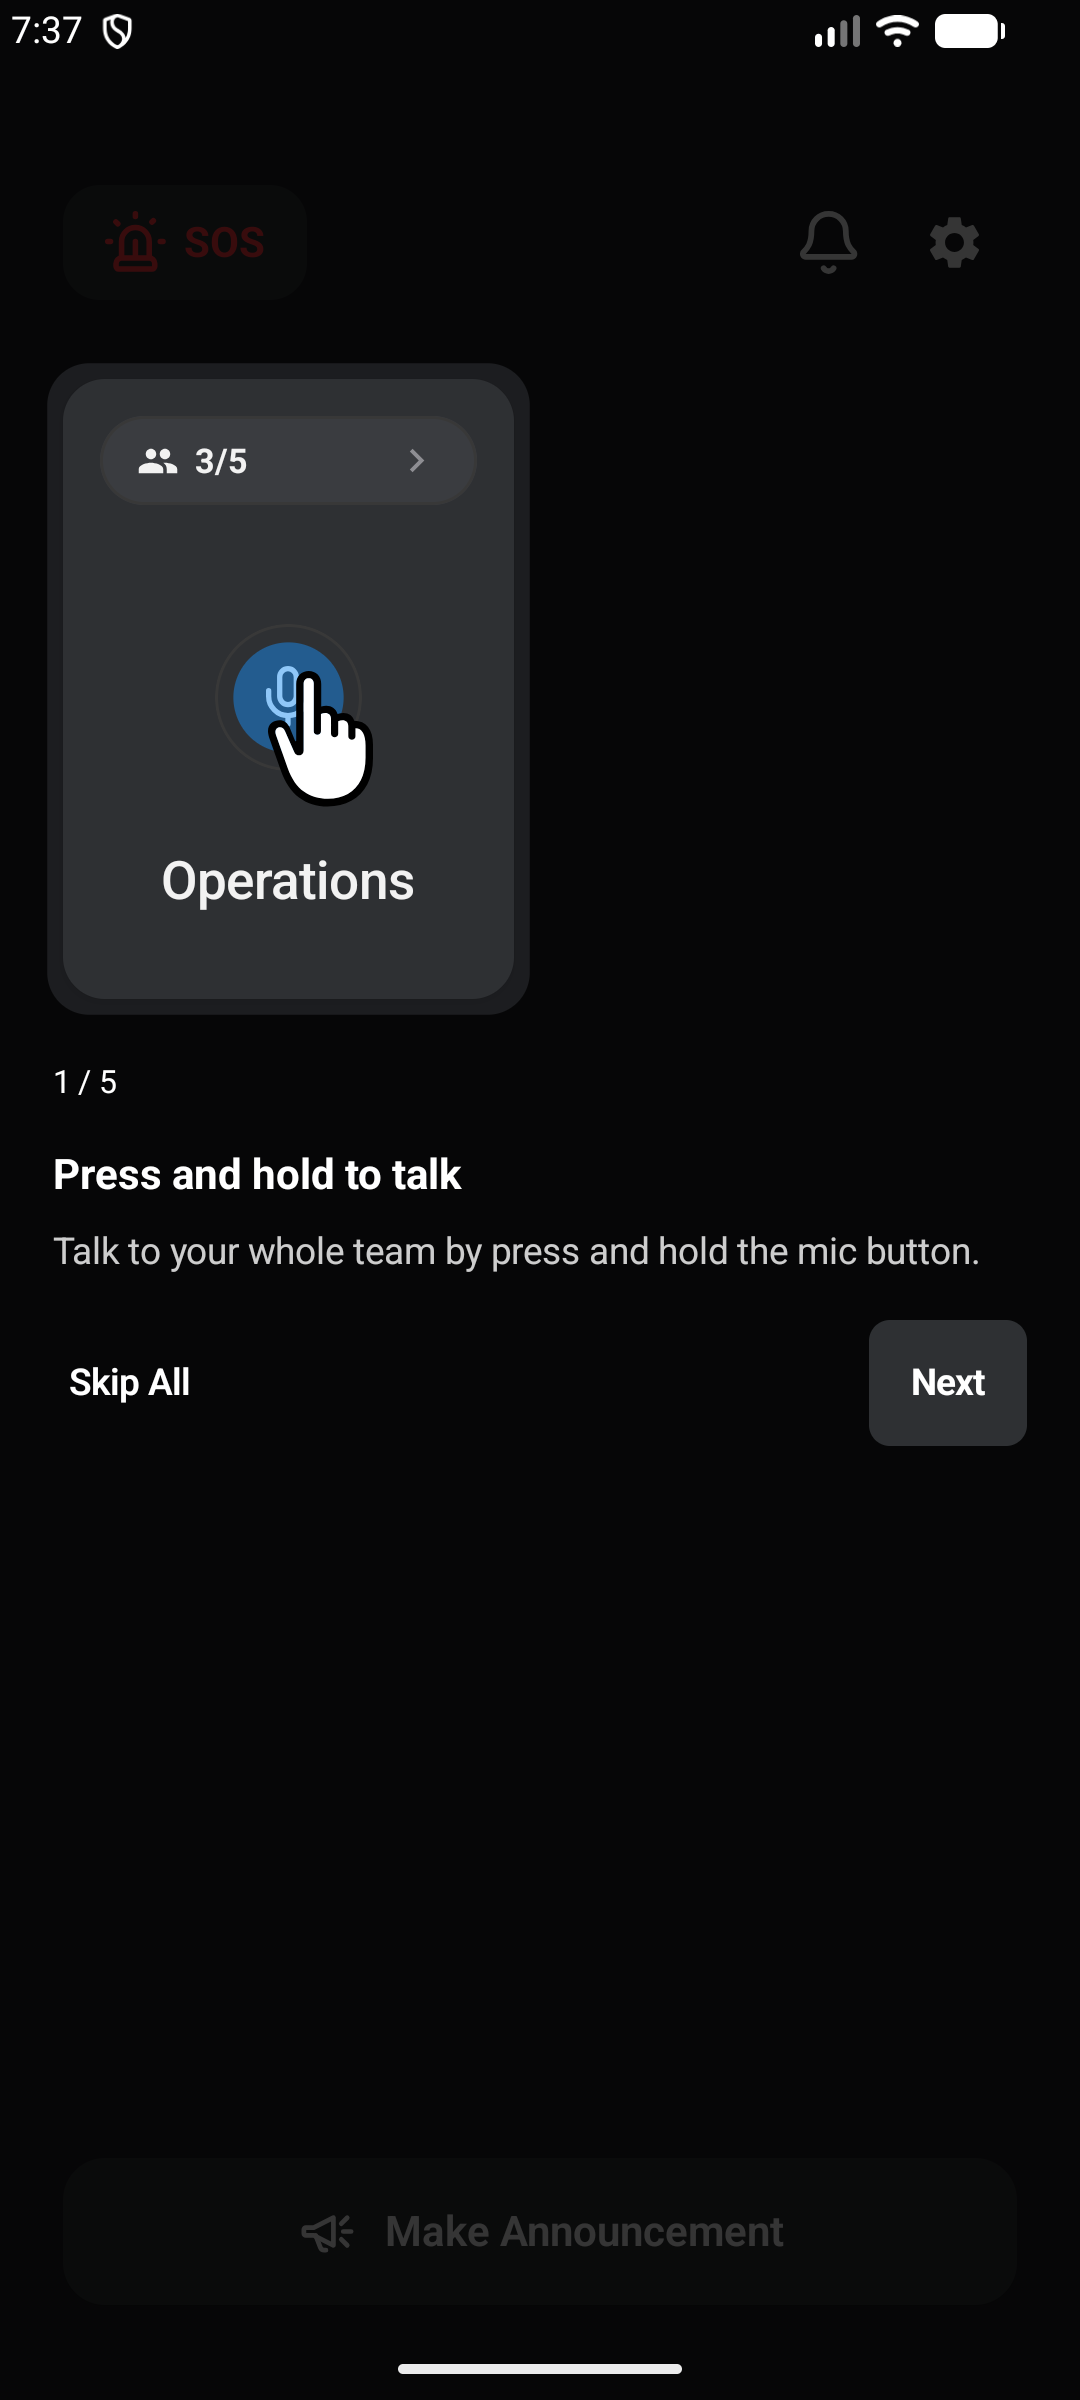
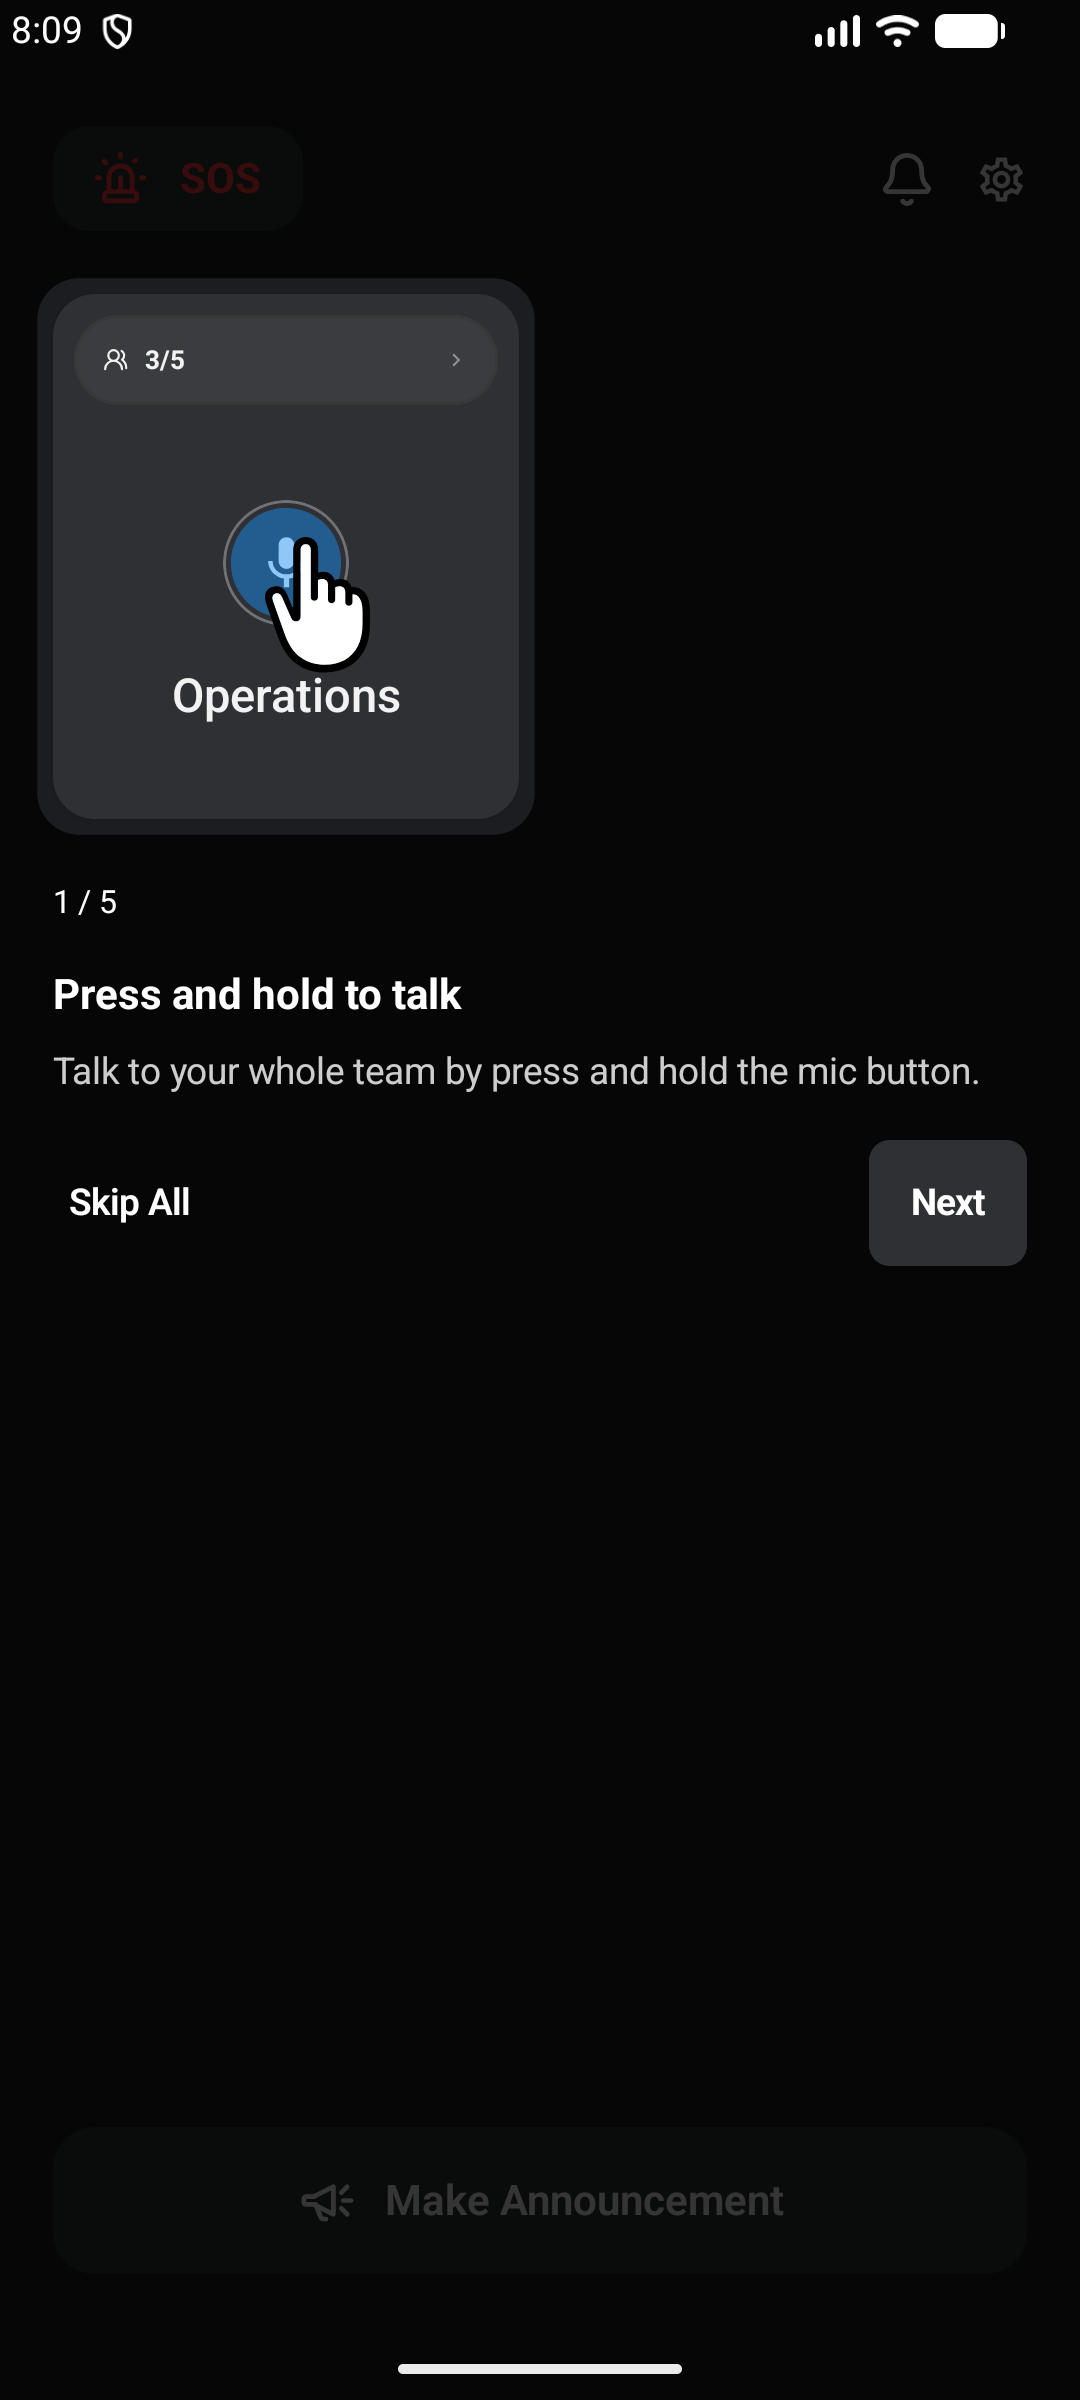
Align homepage navbar and channel cards with design dimensions

diff --git a/app/src/main/java/com/example/viko/view/screens/home/components/ChannelCard.kt b/app/src/main/java/com/example/viko/view/screens/home/components/ChannelCard.kt
@@ -18,13 +18,14 @@ import androidx.compose.foundation.layout.fillMaxWidth
 import androidx.compose.foundation.layout.height
 import androidx.compose.foundation.layout.padding
 import androidx.compose.foundation.layout.size
+import androidx.compose.foundation.layout.requiredSize
 import androidx.compose.foundation.layout.width
 import androidx.compose.foundation.shape.CircleShape
 import androidx.compose.foundation.shape.RoundedCornerShape
 import androidx.compose.material.icons.Icons
 import androidx.compose.material.icons.automirrored.filled.VolumeUp
 import androidx.compose.material.icons.filled.ChevronRight
-import androidx.compose.material.icons.filled.People
+import androidx.compose.material.icons.filled.Mic
 import androidx.compose.material3.Icon
 import androidx.compose.material3.MaterialTheme
 import androidx.compose.material3.Text
@@ -42,6 +43,7 @@ import androidx.compose.ui.text.font.FontWeight
 import androidx.compose.ui.text.style.TextAlign
 import androidx.compose.ui.text.style.TextOverflow
 import androidx.compose.ui.unit.dp
+import androidx.compose.ui.unit.sp
 import com.example.viko.R
 import com.example.viko.components.SpeakingRipple
 import com.example.viko.view.screens.home.ChannelSummary
@@ -112,12 +114,12 @@ fun ChannelCard(
     Box(
         modifier = Modifier
             .fillMaxWidth()
-            .height(236.dp)
+            .height(200.dp)
             .onGloballyPositioned { onCardBounds(it.boundsInRoot()) }
             .shadow(2.dp, RoundedCornerShape(16.dp), spotColor = VShadow)
             .clip(RoundedCornerShape(16.dp))
             .background(VSurface)
-            .padding(14.dp)
+            .padding(8.dp)
     ) {
         Column(
             modifier = Modifier.fillMaxSize(),
@@ -132,7 +134,7 @@ fun ChannelCard(
                 onClick = onChipTap
             )
 
-            Spacer(modifier = Modifier.height(12.dp))
+            Spacer(modifier = Modifier.height(8.dp))
 
             Column(
                 modifier = Modifier
@@ -145,10 +147,7 @@ fun ChannelCard(
                 verticalArrangement = Arrangement.Center,
                 horizontalAlignment = Alignment.CenterHorizontally
             ) {
-                // Fixed slot, not sized to its contents: the ripple needs the full
-                // MIC_SLOT and the bare circle only MIC_CIRCLE, so sizing to fit
-                // made the block taller the moment a channel went live — which
-                // Center then paid for by sliding the label down and the mic up.
+                // Keep the complete mic control at 48 dp in every audio state.
                 Box(
                     modifier = Modifier
                         .size(MIC_SLOT)
@@ -158,7 +157,8 @@ fun ChannelCard(
                     // Every branch below draws into the same MIC_SLOT box at the
                     // same MIC_CIRCLE size, so mic and label hold their position.
                     if (isSpeaking) {
-                        SpeakingRipple(size = MIC_SLOT, color = activeCircleColor)
+                        // Draw the ripple outside the fixed circle without moving the label.
+                        SpeakingRipple(modifier = Modifier.requiredSize(72.dp), size = 72.dp, color = activeCircleColor)
                         ActiveMicCircle(
                             channelName = summary.channel.name,
                             isListening = isListening,
@@ -183,9 +183,7 @@ fun ChannelCard(
 
                 Text(
                     text = summary.channel.name,
-                    // headlineLarge (25sp) overflowed a half-width card:
-                    // "Maintenance" rendered as "Maintenan…".
-                    style = MaterialTheme.typography.headlineMedium,
+                    style = MaterialTheme.typography.headlineSmall,
                     color = if (isSpeaking) activeLabelColor else VOnSurface.copy(alpha = contentAlpha),
                     textAlign = TextAlign.Center,
                     maxLines = 1,
@@ -212,19 +210,20 @@ private fun MemberCountChip(
             .background(VSurfaceVariant)
             .border(1.dp, VBorder, RoundedCornerShape(20.dp))
             .clickable(enabled = enabled, onClick = onClick)
-            .padding(horizontal = 14.dp, vertical = 8.dp),
+            .padding(horizontal = 11.dp, vertical = 11.dp),
         verticalAlignment = Alignment.CenterVertically
     ) {
         Icon(
-            Icons.Filled.People,
+            painter = painterResource(R.drawable.member_channel),
             contentDescription = null,
             tint = VOnSurface.copy(alpha = contentAlpha),
-            modifier = Modifier.size(16.dp)
+            modifier = Modifier.size(10.dp)
         )
         Spacer(modifier = Modifier.width(6.dp))
         Text(
             text = "$onlineCount/$totalCount",
-            style = MaterialTheme.typography.titleSmall,
+            fontSize = 10.sp,
+            lineHeight = 12.sp,
             fontWeight = FontWeight.Bold,
             color = VOnSurface.copy(alpha = contentAlpha)
         )
@@ -233,7 +232,7 @@ private fun MemberCountChip(
             Icons.Default.ChevronRight,
             contentDescription = null,
             tint = VOnSurfaceSecondary.copy(alpha = contentAlpha),
-            modifier = Modifier.size(18.dp)
+            modifier = Modifier.size(10.dp)
         )
     }
 }
@@ -291,11 +290,11 @@ private fun IdleMicCircle(contentAlpha: Float, micLabel: String) {
             .size(MIC_CIRCLE)
             .clip(CircleShape)
             .background(VSurface)
-            .border(1.dp, VBorder.copy(alpha = contentAlpha), CircleShape),
+            .border(1.dp, Color(0xFF707174).copy(alpha = contentAlpha), CircleShape),
         contentAlignment = Alignment.Center
     ) {
         Icon(
-            painter = painterResource(id = R.drawable.ic_mic),
+            imageVector = Icons.Filled.Mic,
             contentDescription = micLabel,
             tint = VOnSurface.copy(alpha = contentAlpha),
             modifier = Modifier.size(MIC_ICON)
@@ -306,19 +305,9 @@ private fun IdleMicCircle(contentAlpha: Float, micLabel: String) {
 /** How far an empty channel's contents fade back. */
 private const val INACTIVE_ALPHA = 0.35f
 
-/**
- * Mic geometry. Every value here is the same in all four states — only fill, ring
- * and label colour change — so the circle and the channel name never move when a
- * channel goes live.
- *
- * [MIC_SLOT] is the box the mic is centred in, sized for the ripple at its widest
- * so nothing resizes when the pulses appear. It is deliberately only ~1.5x the
- * circle: at 104.dp the slot plus label filled the panel to within 6.dp and the
- * tile read as crowded rather than centred. These proportions come off the Figma
- * grid, where the circle is roughly a third of the card's width.
- */
-private val MIC_SLOT = 84.dp
-private val MIC_CIRCLE = 56.dp
+/** All audio states use the same 48 dp circle and slot, keeping the label fixed. */
+private val MIC_SLOT = 48.dp
+private val MIC_CIRCLE = 48.dp
 private val MIC_ICON = 24.dp
 
 /** Space between the mic and the channel name. */

diff --git a/app/src/main/java/com/example/viko/view/screens/home/HomeScreen.kt b/app/src/main/java/com/example/viko/view/screens/home/HomeScreen.kt
@@ -25,7 +25,7 @@ import androidx.compose.foundation.lazy.grid.items
 import androidx.compose.foundation.shape.CircleShape
 import androidx.compose.foundation.shape.RoundedCornerShape
 import androidx.compose.material.icons.Icons
-import androidx.compose.material.icons.filled.Settings
+import androidx.compose.material.icons.outlined.Settings
 import androidx.compose.material3.ExperimentalMaterial3Api
 import androidx.compose.material3.Icon
 import androidx.compose.material3.IconButton
@@ -198,7 +198,7 @@ fun HomeScreen(
                         onResolveAlert(alert.id)
                     },
                     modifier = Modifier
-                        .padding(start = 24.dp, end = 24.dp, top = 20.dp)
+                        .padding(start = 20.dp, end = 20.dp, top = 24.dp)
                         .clickable(onClick = onOpenNotifications)
                 )
             }
@@ -213,9 +213,9 @@ fun HomeScreen(
             } else {
                 LazyVerticalGrid(
                     columns = GridCells.Fixed(2),
-                    contentPadding = PaddingValues(start = 24.dp, end = 24.dp, top = 28.dp, bottom = 100.dp),
-                    horizontalArrangement = Arrangement.spacedBy(20.dp),
-                    verticalArrangement = Arrangement.spacedBy(22.dp),
+                    contentPadding = PaddingValues(start = 20.dp, end = 20.dp, top = 24.dp, bottom = 24.dp),
+                    horizontalArrangement = Arrangement.spacedBy(16.dp),
+                    verticalArrangement = Arrangement.spacedBy(16.dp),
                     modifier = Modifier.weight(1f)
                 ) {
                     itemsIndexed(uiState.channels, key = { _, it -> it.channel.id }) { index, summary ->
@@ -405,9 +405,8 @@ private fun HomeTopBar(
     Row(
         modifier = Modifier
             .fillMaxWidth()
-            .padding(horizontal = 24.dp)
-            .padding(top = 44.dp)
-            .height(48.dp),
+            .padding(horizontal = 20.dp)
+            .padding(top = 24.dp),
         verticalAlignment = Alignment.CenterVertically
     ) {
         Row(
@@ -419,13 +418,13 @@ private fun HomeTopBar(
                 .clickable(onClick = onSosTap)
                 .padding(horizontal = 16.dp, vertical = 10.dp),
             verticalAlignment = Alignment.CenterVertically,
-            horizontalArrangement = Arrangement.spacedBy(6.dp)
+            horizontalArrangement = Arrangement.spacedBy(12.dp)
         ) {
             Icon(
                 painter = painterResource(id = R.drawable.ic_sos),
                 contentDescription = "SOS Emergency Button",
                 tint = VAccentRed,
-                modifier = Modifier.size(24.dp)
+                modifier = Modifier.size(20.dp)
             )
             Text(
                 text = "SOS",
@@ -438,20 +437,20 @@ private fun HomeTopBar(
         Spacer(modifier = Modifier.weight(1f))
 
         Box {
-            IconButton(onClick = onNotificationsTap) {
+            IconButton(onClick = onNotificationsTap, modifier = Modifier.size(20.dp)) {
                 Icon(
                     painter = painterResource(id = R.drawable.ic_bell),
                     contentDescription = "Notification Button",
                     tint = VOnSurface,
-                    modifier = Modifier.size(24.dp)
+                    modifier = Modifier.size(20.dp)
                 )
             }
             if (activeAlertCount > 0) {
                 Box(
                     modifier = Modifier
-                        .size(16.dp)
-                        .align(Alignment.TopEnd)
-                        .offset(x = (-8).dp, y = 22.dp)
+                        .size(12.dp)
+                        .align(Alignment.BottomEnd)
+                        .offset(x = 3.dp, y = 3.dp)
                         .clip(CircleShape)
                         .background(VAccentBlue),
                     contentAlignment = Alignment.Center
@@ -466,8 +465,10 @@ private fun HomeTopBar(
             }
         }
 
-        IconButton(onClick = onSettingsTap) {
-            Icon(Icons.Filled.Settings, contentDescription = "Settings", tint = VOnSurface)
+        Spacer(Modifier.width(16.dp))
+        IconButton(onClick = onSettingsTap, modifier = Modifier.size(20.dp)) {
+            Icon(Icons.Outlined.Settings, contentDescription = "Settings", tint = VOnSurface,
+                modifier = Modifier.size(20.dp))
         }
     }
 }
@@ -478,7 +479,7 @@ private fun MakeAnnouncementButton(onClick: () -> Unit, modifier: Modifier = Mod
         modifier = modifier
             .fillMaxWidth()
             .background(VBackground)
-            .padding(horizontal = 24.dp, vertical = 12.dp)
+            .padding(start = 20.dp, end = 20.dp, bottom = 24.dp)
             .navigationBarsPadding()
     ) {
         Row(

diff --git a/app/src/androidTest/java/com/example/viko/view/PairingTutorialUiTest.kt b/app/src/androidTest/java/com/example/viko/view/PairingTutorialUiTest.kt
@@ -58,6 +58,36 @@ class PairingTutorialUiTest {
         compose.onNodeWithText("Skip All").assertDoesNotExist()
     }
 
+    @Test fun homeGridKeepsNavigationAndChannelActionsWorking() {
+        var notifications = false
+        var settings = false
+        compose.setContent {
+            TestTheme {
+                HomeScreen(
+                    uiState = HomeUiState(channels = listOf("Operations", "Facilities", "Assembly", "Security").mapIndexed { index, name ->
+                        val id = "channel-$index"
+                        ChannelSummary(Channel(id, name), listOf(previewWorker("worker-$index", "Member $index", id)))
+                    }, activeAlertCount = 1, hasMembers = true, isLoaded = true),
+                    onOpenNotifications = { notifications = true }, onOpenSettings = { settings = true }, onDirectCall = {},
+                    onRenameWorker = { _, _ -> }, onRemoveWorker = {}, onAssignWorkerToChannel = { _, _ -> },
+                    onResolveAlert = {}, startTutorial = false
+                )
+            }
+        }
+        compose.onNodeWithText("Security").assertIsDisplayed()
+        compose.onNodeWithText("Make Announcement").assertIsDisplayed()
+        capture("home-layout-grid.png")
+        compose.onNodeWithContentDescription("Talk to Operations").performTouchInput { click() }
+        compose.onNodeWithContentDescription("Talking to Operations").assertIsDisplayed()
+        capture("home-layout-talking.png")
+        compose.onNodeWithContentDescription("Talking to Operations").performTouchInput { click() }
+        compose.onNodeWithContentDescription("Notification Button").performTouchInput { click() }
+        compose.onNodeWithContentDescription("Settings").performTouchInput { click() }
+        compose.runOnIdle { assertTrue(notifications); assertTrue(settings) }
+        compose.onAllNodesWithText("1/1")[0].performTouchInput { click() }
+        compose.onNodeWithText("Member 0").assertIsDisplayed()
+    }
+
     @Test fun largeTextIntroCanScrollToSkipWithoutStartingTutorial() {
         var skipped = false
         var started = false

diff --git a/docs/homepage-layout/README.md b/docs/homepage-layout/README.md
@@ -1,0 +1,34 @@
+# Homepage layout refinement
+
+The homepage uses a fixed navbar, a scrolling two-column channel grid, and an announcement button anchored at the bottom. Measurements use Android dp for layout and sp for text.
+
+| Element | Layout |
+| --- | --- |
+| Screen sides / top | 20 dp / 24 dp below status-bar inset |
+| Navbar → cards | 24 dp |
+| SOS button | 16 dp horizontal and 10 dp vertical padding; 12 dp icon–label gap |
+| Navbar icons | 20 dp; notification–settings gap 16 dp |
+| Grid | Two columns; 16 dp gaps |
+| Channel card | 200 dp high; 8 dp inner padding |
+| Member chip | 11 dp padding on each side; 10 sp count and 10 dp icons |
+| Microphone | 48 × 48 dp circle; 16 dp gap to channel name |
+| Channel name | 18 sp, centered, ellipsis for long names |
+| Announcement footer | 20 dp side margins; 24 dp bottom spacing plus navigation-bar inset |
+
+The supplied `member_channel` drawable is used on both rectangular and round displays. The idle mic is filled with a visible gray circle, and settings uses an outline icon. The talking animation expands outside the fixed mic slot so it does not move the channel name.
+
+## Emulator captures
+
+Sample members and channels below exist only in the UI test.
+
+| Ready | Talking |
+| --- | --- |
+| ![Two-column homepage](home-grid.png) | ![Talking state](home-talking.png) |
+
+## Verification
+
+- Debug app and instrumentation APK builds succeed.
+- 31 unit tests pass.
+- 9 emulator UI tests pass, including the full tutorial, enlarged-text navigation, homepage notification/settings actions, mic toggle, and member-list opening.
+- Lint completes with no errors; existing warnings remain.
+- Refreshed tutorial screenshots are in [the tutorial gallery](../homepage-tutorial/README.md).

diff --git a/docs/homepage-tutorial/README.md b/docs/homepage-tutorial/README.md
@@ -40,7 +40,7 @@ The first spotlight covers the full channel card while its cursor points at the 
 
 - Debug app and instrumentation APK builds succeed.
 - 31 unit tests pass.
-- 8 `PairingTutorialUiTest` emulator tests pass, including progression through all five steps, announcement controls, enlarged-text Next/Skip, and enlarged-text intro Skip.
+- 9 `PairingTutorialUiTest` emulator tests pass, including progression through all five steps, announcement controls, enlarged-text Next/Skip, and enlarged-text intro Skip.
 - Android lint completes with no errors; existing warnings remain.
 - Screenshots inspected on the API 37 Medium Phone emulator.
 
